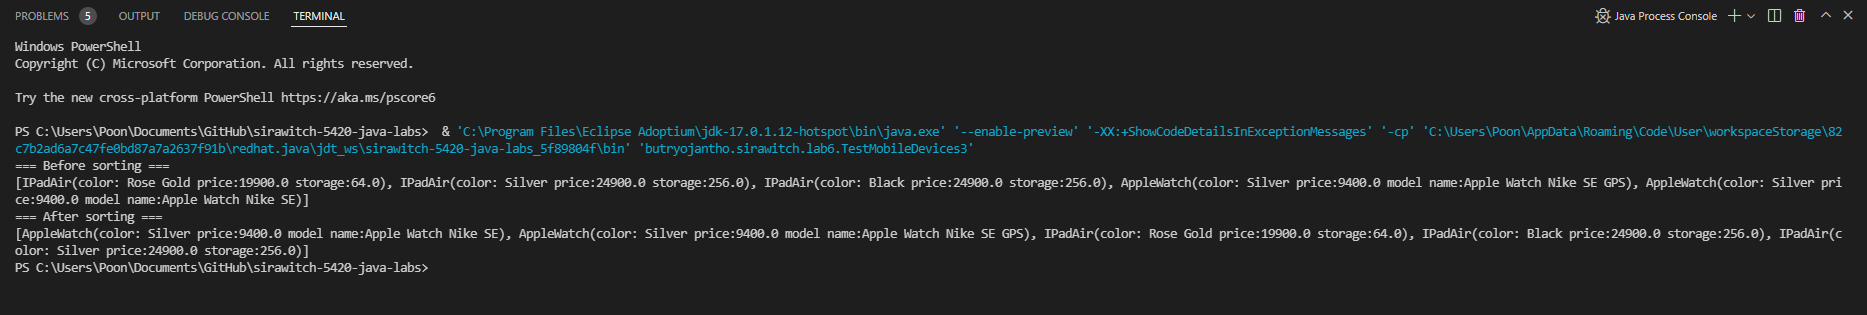
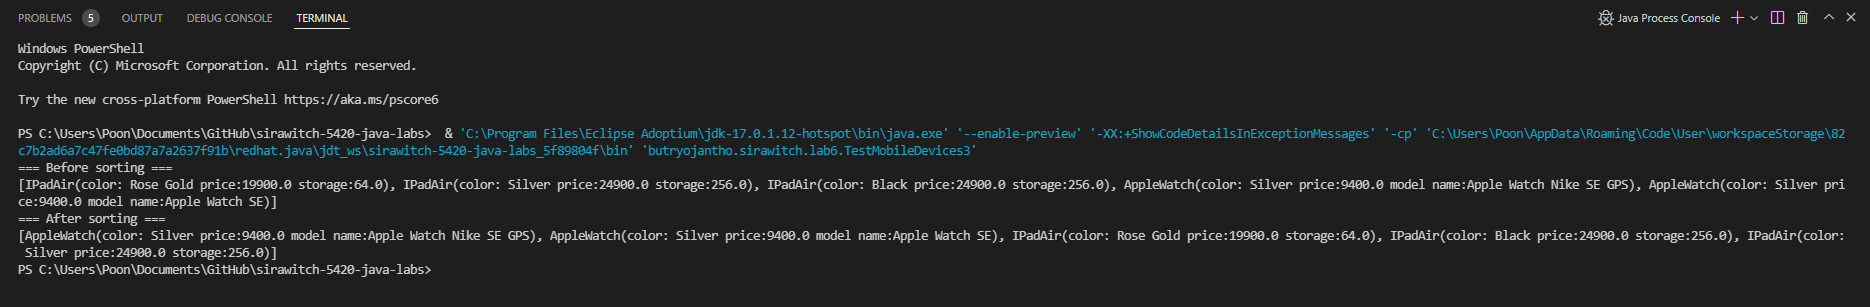
Add files via upload

diff --git a/lab6/TestAppleWatchNike.java b/lab6/TestAppleWatchNike.java
@@ -12,22 +12,38 @@ package butryojantho.sirawitch.lab6;
 
 public class TestAppleWatchNike {
     public static void main(String[] args) {
-        AppleWatch appleWatch1 = new AppleWatch("Silver", 9400.0, "Apple Watch Nike SE GPS"); //create an object call "appleWatch1" which in an Applewatch's type
-        AppleWatchNike appleWatch2 = new AppleWatchNike("Black", 10000, "Apple Watch Nike SE 7"); //create an object call "appleWatch2" which in an ApplewatchNike's type
-        AppleWatchNike appleWatch3 = new AppleWatchNike("Navy", 12000, "Apple Watch Nike SE 8", 6, 8, 48, 140, 150, 8); //create an object call "appleWatch3" which in an ApplewatchNike's type
-        System.out.println(appleWatch1); //print appleWatch1's info
-        System.out.println(appleWatch2); //print appleWatch2's info
-        appleWatch2.displayRunningStats(); //print appleWatch2's pace, distance, time
-        appleWatch2.displayHeartRates(); //print appleWatch2's Avg/max heart rate
-        appleWatch2.displaySleepHours(); //print appleWatch2's sleep hours
-        System.out.println(appleWatch3); //print appleWatch3's info
-        appleWatch3.displayRunningStats(); //print appleWatch3's pace, distance, time
-        appleWatch3.displayHeartRates(); //print appleWatch3's Avg/max heart rate
-        appleWatch3.displaySleepHours(); //print appleWatch3's sleep hours
+        AppleWatch appleWatch1 = new AppleWatch("Silver", 9400.0, "Apple Watch Nike SE GPS"); // create an object call
+                                                                                              // "appleWatch1" which in
+                                                                                              // an Applewatch's type
+        AppleWatchNike appleWatch2 = new AppleWatchNike("Black", 10000, "Apple Watch Nike SE 7"); // create an object
+                                                                                                  // call "appleWatch2"
+                                                                                                  // which in an
+                                                                                                  // ApplewatchNike's
+                                                                                                  // type
+        AppleWatchNike appleWatch3 = new AppleWatchNike("Navy", 12000, "Apple Watch Nike SE 8", 6, 8, 48, 140, 150, 8); // create
+                                                                                                                        // an
+                                                                                                                        // object
+                                                                                                                        // call
+                                                                                                                        // "appleWatch3"
+                                                                                                                        // which
+                                                                                                                        // in
+                                                                                                                        // an
+                                                                                                                        // ApplewatchNike's
+                                                                                                                        // type
+        System.out.println(appleWatch1); // print appleWatch1's info
+        System.out.println(appleWatch2); // print appleWatch2's info
+        appleWatch2.displayRunningStats(); // print appleWatch2's pace, distance, time
+        appleWatch2.displayHeartRates(); // print appleWatch2's Avg/max heart rate
+        appleWatch2.displaySleepHours(); // print appleWatch2's sleep hours
+        System.out.println(appleWatch3); // print appleWatch3's info
+        appleWatch3.displayRunningStats(); // print appleWatch3's pace, distance, time
+        appleWatch3.displayHeartRates(); // print appleWatch3's Avg/max heart rate
+        appleWatch3.displaySleepHours(); // print appleWatch3's sleep hours
     }
 
-    public interface RunnerStatsCollector  {
+    public interface RunnerStatsCollector {
         public void displayRunningStats();
+
         public void displayHeartRates();
     }
 

diff --git a/lab6/TestMobileDevices3.java b/lab6/TestMobileDevices3.java
@@ -16,17 +16,22 @@ import java.util.Comparator;
 
 public class TestMobileDevices3 {
     public static void main(String[] args) {
-        ArrayList<MobileDevice> mobileDevices = new ArrayList<MobileDevice>(); //create empthy arraylist call "mobileDevices" which in MobileDevice's type
+        ArrayList<MobileDevice> mobileDevices = new ArrayList<MobileDevice>(); // create empthy arraylist call
+                                                                               // "mobileDevices" which in
+                                                                               // MobileDevice's type
         mobileDevices.add(new IPadAir("Rose Gold", 19900.0, 64.0)); // add an object in to mobileDivices's list
         mobileDevices.add(new IPadAir("Silver", 24900.0, 256.0)); // add an object in to mobileDivices's list
         mobileDevices.add(new IPadAir("Black", 24900.0, 256.0)); // add an object in to mobileDivices's list
-        mobileDevices.add(new AppleWatch("Silver", 9400.0, "Apple Watch Nike SE GPS")); // add an object in to mobileDivices's list
-        mobileDevices.add(new AppleWatch("Silver", 9400.0, "Apple Watch Nike SE")); // add an object in to mobileDivices's list
-        System.out.println("=== Before sorting ==="); //print message
-        System.out.println(mobileDevices);  //print mobileDevices's list(unsorted)
-        Collections.sort(mobileDevices, new SortMobileDevicesByMultipleAttrs()); //sort an object in mobileDevice's list by multiple condition
-        System.out.println("=== After sorting ==="); //print message
-        System.out.println(mobileDevices); //print mobileDevices's list(sorted)
+        mobileDevices.add(new AppleWatch("Silver", 9400.0, "Apple Watch Nike SE GPS")); // add an object in to
+                                                                                        // mobileDivices's list
+        mobileDevices.add(new AppleWatch("Silver", 9400.0, "Apple Watch SE")); // add an object in to
+                                                                                    // mobileDivices's list
+        System.out.println("=== Before sorting ==="); // print message
+        System.out.println(mobileDevices); // print mobileDevices's list(unsorted)
+        Collections.sort(mobileDevices, new SortMobileDevicesByMultipleAttrs()); // sort an object in mobileDevice's
+                                                                                 // list by multiple condition
+        System.out.println("=== After sorting ==="); // print message
+        System.out.println(mobileDevices); // print mobileDevices's list(sorted)
     }
 }
 

diff --git a/lab6/TestMobileDevices.java b/lab6/TestMobileDevices.java
@@ -12,19 +12,22 @@ package butryojantho.sirawitch.lab6;
 
 public class TestMobileDevices {
     public static void main(String[] args) {
-        IPadAir ipadAir1 = new IPadAir("Rose Gold", 19900.0, 64.0); //create an object call "ipadAir1" which in an IPadAir's type
-        IPadAir ipadAir2 = new IPadAir("Silver", 24900.0, 256.0); //create an object call "ipadAir2" which in an IPadAir's type
-        AppleWatch appleWatch1 = new AppleWatch("Silver", 9400.0, "Apple Watch Nike SE GPS"); //create an object call "applewatch1" which in an AppleWatch's type
-        System.out.println("iPadAir chip name is " + IPadAir.getChipName()); //print out IPadAir chip name
-        if (ipadAir2.isWatch()) { //check if this object is watch
-            System.out.println(ipadAir2 + " is a watch"); //print that this object is a watch
+        IPadAir ipadAir1 = new IPadAir("Rose Gold", 19900.0, 64.0); // create an object call "ipadAir1" which in an
+                                                                    // IPadAir's type
+        IPadAir ipadAir2 = new IPadAir("Silver", 24900.0, 256.0); // create an object call "ipadAir2" which in an
+                                                                  // IPadAir's type
+        AppleWatch appleWatch1 = new AppleWatch("Silver", 9400.0, "Apple Watch Nike SE GPS"); // create an object call
+                                                                                              // "applewatch1" which in
+                                                                                              // an AppleWatch's type
+        System.out.println("iPadAir chip name is " + IPadAir.getChipName()); // print out IPadAir chip name
+        if (ipadAir2.isWatch()) { // check if this object is watch
+            System.out.println(ipadAir2 + " is a watch"); // print that this object is a watch
         } else {
-            System.out.println(ipadAir2 + " is not a watch"); //print that this object isn't a watch
+            System.out.println(ipadAir2 + " is not a watch"); // print that this object isn't a watch
         }
-        comparePrice(ipadAir1, ipadAir2); //comparing price of two objects
-        comparePrice(ipadAir1, appleWatch1); //comparing price of two objects
+        comparePrice(ipadAir1, ipadAir2); // comparing price of two objects
+        comparePrice(ipadAir1, appleWatch1); // comparing price of two objects
     }
-
 
     private static void comparePrice(MobileDevice md1, MobileDevice md2) {
         if (md1.getPrice() > md2.getPrice()) {

diff --git a/lab6/TestMobileDevices2.java b/lab6/TestMobileDevices2.java
@@ -16,15 +16,19 @@ import java.util.Comparator;
 
 public class TestMobileDevices2 {
     public static void main(String[] args) {
-        ArrayList<MobileDevice> mobileDevices = new ArrayList<MobileDevice>(); //create empthy arraylist call "mobileDevices" which in MobileDevice's type
+        ArrayList<MobileDevice> mobileDevices = new ArrayList<MobileDevice>(); // create empthy arraylist call
+                                                                               // "mobileDevices" which in
+                                                                               // MobileDevice's type
         mobileDevices.add(new IPadAir("Rose Gold", 19900.0, 64.0)); // add an object in to mobileDivices's list
         mobileDevices.add(new IPadAir("Silver", 24900.0, 256.0)); // add an object in to mobileDivices's list
-        mobileDevices.add(new AppleWatch("Silver", 9400.0, "Apple Watch Nike SE GPS")); // add an object in to mobileDivices's list
-        System.out.println("=== Before sorting ==="); //print message
-        System.out.println(mobileDevices); //print mobileDevices's list(unsorted)
-        Collections.sort(mobileDevices, new SortMobileDevicesByPrice()); //sort an object in mobileDevice's list by low to high price
-        System.out.println("=== After sorting ==="); //print message
-        System.out.println(mobileDevices); //print mobileDevices's list(sorted)
+        mobileDevices.add(new AppleWatch("Silver", 9400.0, "Apple Watch Nike SE GPS")); // add an object in to
+                                                                                        // mobileDivices's list
+        System.out.println("=== Before sorting ==="); // print message
+        System.out.println(mobileDevices); // print mobileDevices's list(unsorted)
+        Collections.sort(mobileDevices, new SortMobileDevicesByPrice()); // sort an object in mobileDevice's list by low
+                                                                         // to high price
+        System.out.println("=== After sorting ==="); // print message
+        System.out.println(mobileDevices); // print mobileDevices's list(sorted)
     }
 }
 

diff --git a/lab6/AppleWatchNike.java b/lab6/AppleWatchNike.java
@@ -83,17 +83,18 @@ public class AppleWatchNike extends AppleWatch {
         return super.toString();
     }
 
-
     public void displayRunningStats() {
-        System.out.println("Pace: " + this.getPace() + " min/km, distance: " + this.getDistance() + "km., time:" + this.getTime());
+        System.out.println(
+                "Pace: " + this.getPace() + " min/km, distance: " + this.getDistance() + "km., time:" + this.getTime());
     }
 
     public void displayHeartRates() {
-        System.out.println("Avg heart rate: " + this.getAvgHeartRate() + "bpm, max heart rate:" + this.getMaxAvgHeartRate() + " bpm");
+        System.out.println("Avg heart rate: " + this.getAvgHeartRate() + "bpm, max heart rate:"
+                + this.getMaxAvgHeartRate() + " bpm");
     }
 
     public void displaySleepHours() {
         System.out.println("Sleep hours:" + this.getSleepHours() + " hours");
     }
-    
+
 }
